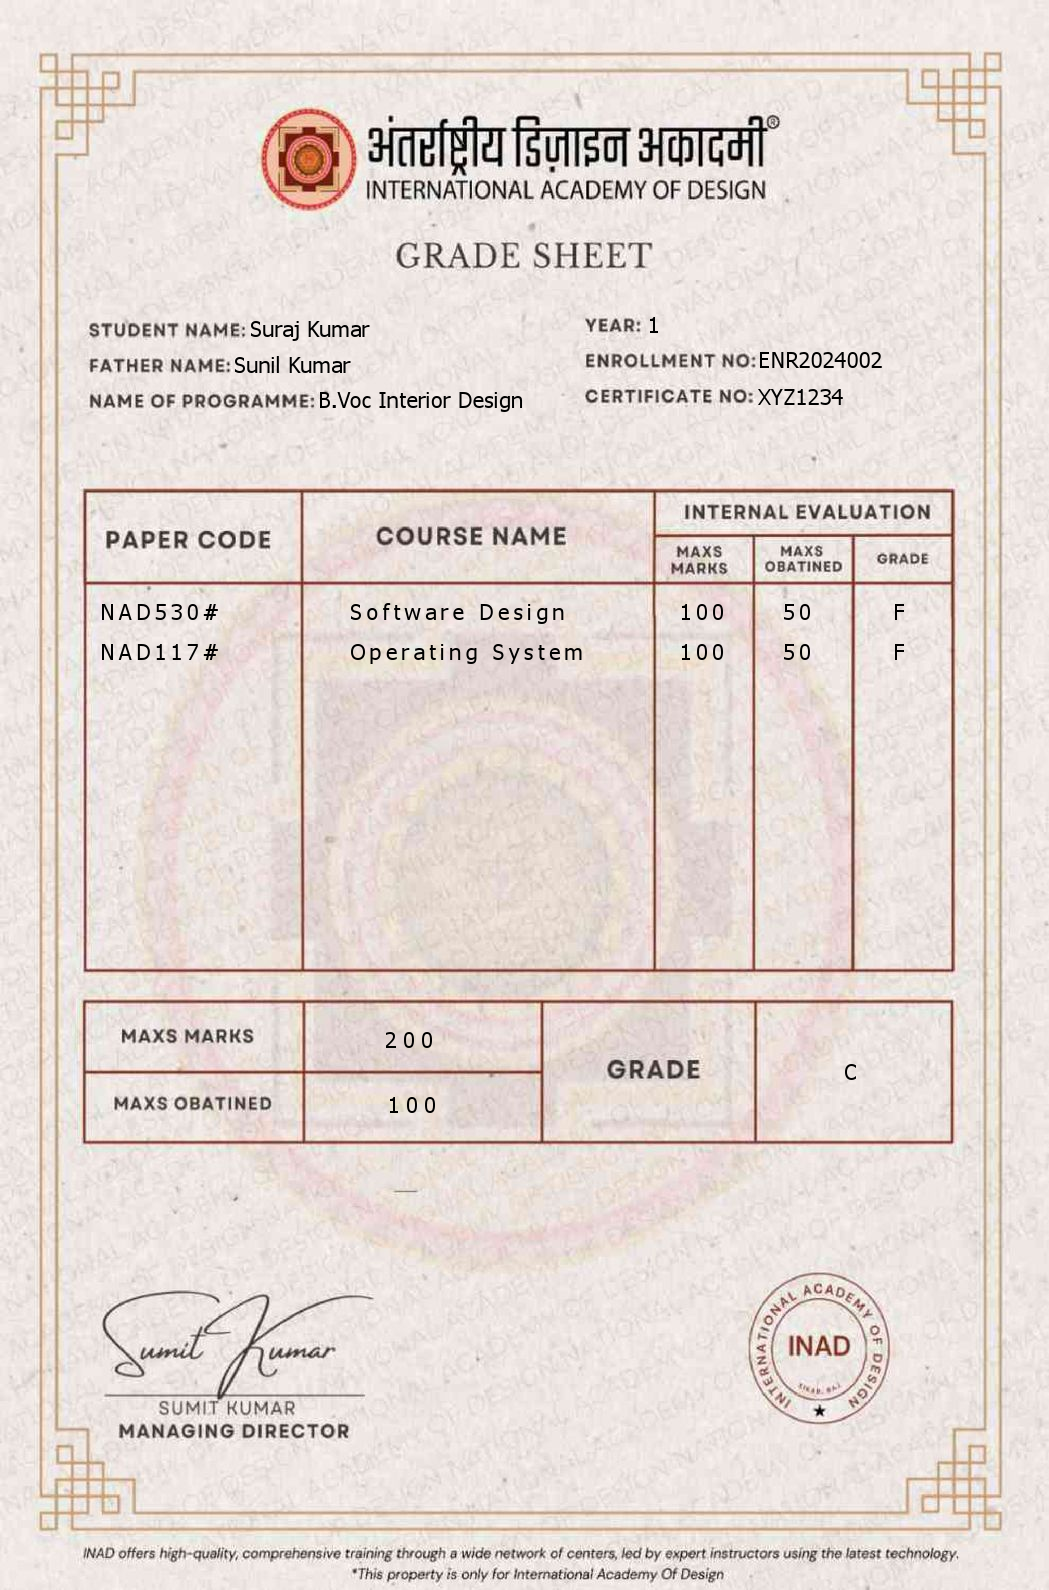
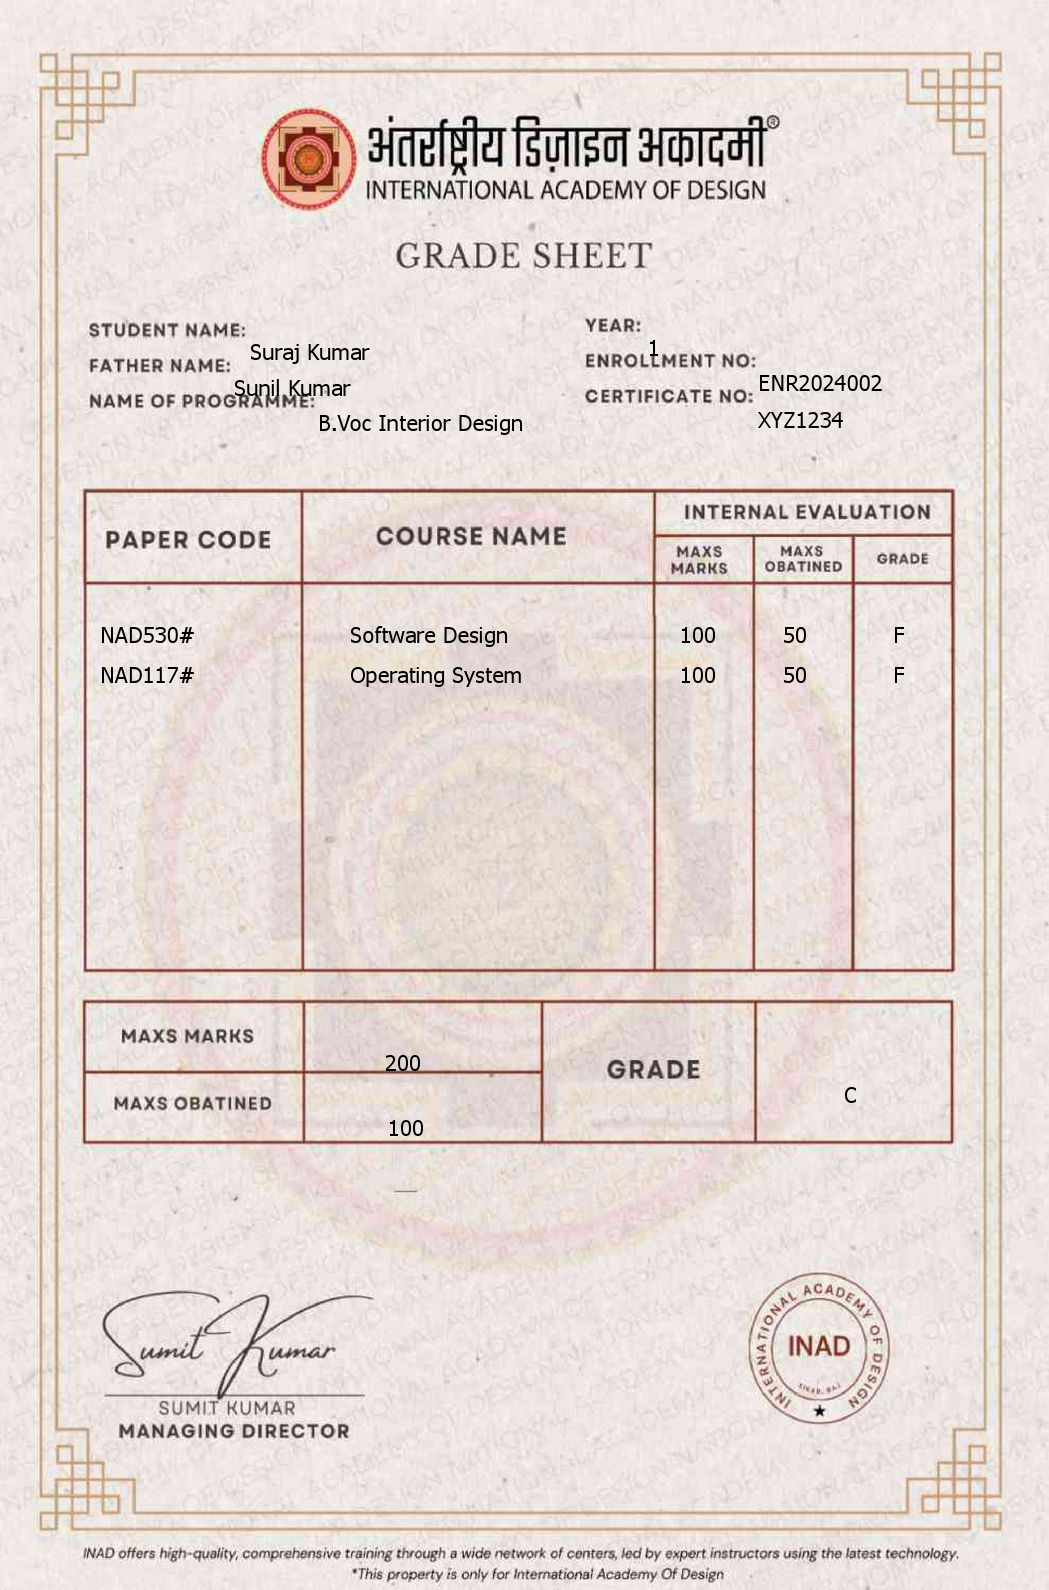
fix font

diff --git a/utils/generateMarksheet.js b/utils/generateMarksheet.js
@@ -1,11 +1,24 @@
 import { createCanvas, loadImage, registerFont } from "canvas";
 import fs from "fs";
 import path from "path";
+import { fileURLToPath } from 'url';
+import { dirname } from 'path';
 import Marksheet from "../models/marksheetModel.js";
 import ErrorHandler from "../utils/errorHandler.js";
 
-const fontPath = path.resolve("fonts", "Garet-Heavy.ttf");
+// Get current module path
+const __filename = fileURLToPath(import.meta.url);
+const __dirname = dirname(__filename);
 
+// Use absolute path that works in both environments
+const fontPath = path.join(__dirname, '../marksheetFonts/fonts/fonnts.com-garet-heavy.otf');
+
+// Verify font exists before registering
+if (!fs.existsSync(fontPath)) {
+  throw new Error(`Font file not found at: ${fontPath}`);
+}
+
+// Register font with explicit properties
 registerFont(fontPath, {
   family: "Garet-Heavy",
   weight: "bold",
@@ -20,40 +33,32 @@ export const printMarksheet = async (id) => {
       throw new ErrorHandler(`No marksheet found with this ID: ${id}`, 404);
     }
 
-    // ✅ Load base certificate image
-    const templatePath = path.join("templates", "marksheet.jpg");
-    const outputPath = path.join("certificates", `${id}.jpeg`);
+    // Load base image using correct path
+    const templatePath = path.join(__dirname, '../templates/marksheet.jpg');
+    const outputPath = path.join(__dirname, `../certificates/${id}.jpeg`);
 
     const image = await loadImage(templatePath);
     const canvas = createCanvas(image.width, image.height);
     const ctx = canvas.getContext("2d");
 
-    // ✅ Draw the base image
+    // Draw base image
     ctx.drawImage(image, 0, 0, canvas.width, canvas.height);
 
-    // ✅ Format date to DD/MM/YYYY
-    const date = new Date(marksheet.date);
-    const formattedDate = `${date.getDate()}/${
-      date.getMonth() + 1
-    }/${date.getFullYear()}`;
-
+    // Set font style
     ctx.fillStyle = "#000";
     ctx.font = "bold 22px 'Garet-Heavy'";
+    ctx.textBaseline = "top";
 
-    // ✅ Function to add letter spacing
-    const drawTextWithSpacing = (text, x, y, spacing) => {
-      let currentX = x;
-      for (const char of text) {
-        ctx.fillText(char, currentX, y);
-        currentX += ctx.measureText(char).width + spacing;
-      }
-    };
+    // Verify font is actually being used
+    if (ctx.font.indexOf('Garet-Heavy') === -1) {
+      console.warn('Warning: Garet-Heavy font not applied, using fallback');
+    }
 
+    // Rest of your drawing code...
     ctx.fillText(`${marksheet.student.name}`, 250, 337);
     ctx.fillText(`${marksheet.student.fatherName}`, 234, 373);
     ctx.fillText(`${marksheet.student.course}`, 318, 408);
 
-    //////////////////
     ctx.fillText(`${marksheet.student.duration}`, 648, 333);
     ctx.fillText(`${marksheet.student.enrollmentId}`, 758, 368);
     ctx.fillText(`${marksheet.student.certificateNo}`, 758, 405);
@@ -63,29 +68,29 @@ export const printMarksheet = async (id) => {
       const lineHeight = 40;
       const y = baseY + index * lineHeight;
 
-      drawTextWithSpacing(item.courseCode, 100, y, 4); // Adjust X for layout
-      drawTextWithSpacing(item.courseName, 350, y, 4);
-      drawTextWithSpacing(String(item.maxMarks), 680, y, 4);
-      drawTextWithSpacing(String(item.obtainedMarks), 783, y, 4);
-      drawTextWithSpacing(item.grade, 893, y, 4);
+      ctx.fillText(item.courseCode, 100, y);
+      ctx.fillText(item.courseName, 350, y);
+      ctx.fillText(String(item.maxMarks), 680, y);
+      ctx.fillText(String(item.obtainedMarks), 783, y);
+      ctx.fillText(item.grade, 893, y);
     });
 
-    drawTextWithSpacing(`${marksheet.totalMaxMarks}`, 385, 1048, 6);
-    drawTextWithSpacing(`${marksheet.totalObtainedMarks}`, 388, 1113, 6);
-    drawTextWithSpacing(`${marksheet.overallGrade}`, 844, 1080, 6);
+    ctx.fillText(`${marksheet.totalMaxMarks}`, 385, 1048);
+    ctx.fillText(`${marksheet.totalObtainedMarks}`, 388, 1113);
+    ctx.fillText(`${marksheet.overallGrade}`, 844, 1080);
 
     const buffer = canvas.toBuffer("image/png");
 
+    // Ensure output directory exists
     const dir = path.dirname(outputPath);
     if (!fs.existsSync(dir)) {
       fs.mkdirSync(dir, { recursive: true });
     }
 
     fs.writeFileSync(outputPath, buffer);
-    console.log(`Certificate saved at: ${outputPath}`);
     return outputPath;
   } catch (error) {
-    console.error("Error generating certificate:", error);
+    console.error("Error generating marksheet:", error);
     throw error;
   }
 };
